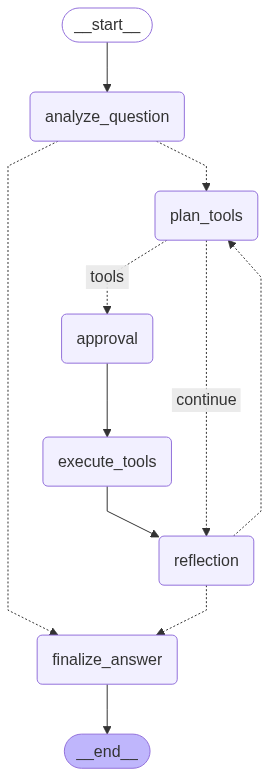
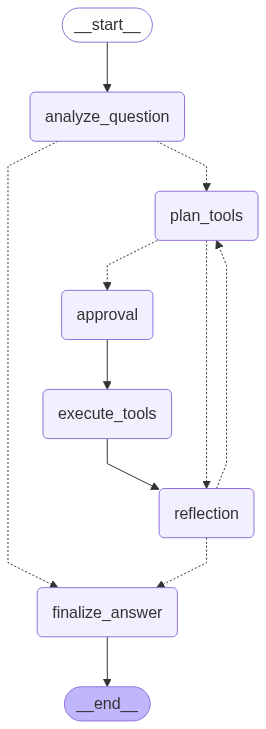
x

diff --git a/frontend/src/agents/diagnostic_agent/DiagnosticChatView.tsx b/frontend/src/agents/diagnostic_agent/DiagnosticChatView.tsx
@@ -223,11 +223,11 @@ export function DiagnosticChatView({
               {/* 助手合并输出区域 */}
               {round.assistant.length > 0 && (
                 <div className="flex flex-col items-start mb-6">
-                  <div className="flex items-start gap-2 max-w-[100%] sm:max-w-[90%]">
+                  <div className="flex items-start gap-2 max-w-[100%] sm:max-w-[90%] min-w-0">
                     <div className="rounded-full bg-gray-200 p-2 flex-shrink-0 flex items-center justify-center">
                       <Bot className="h-5 w-5 text-gray-600" />
                     </div>
-                    <div className="relative flex flex-col bg-gray-100 rounded-lg p-4 shadow min-w-0 w-full">
+                    <div className="relative flex flex-col bg-gray-100 rounded-lg p-4 shadow min-w-0 w-full overflow-x-auto max-w-none">
                       {round.assistant.map((msg, i) => {
                         // 活动事件和 AI 内容
                         if (msg.type === 'ai') {
@@ -244,8 +244,8 @@ export function DiagnosticChatView({
                               )}
                               {/* AI 内容 */}
                               {msg.content && (
-                                <div className="mb-2 overflow-x-auto">
-                                  <div className="min-w-fit">
+                                <div className="mb-2 overflow-x-auto min-w-0">
+                                  <div className="min-w-fit max-w-none">
                                     <MarkdownRenderer content={typeof msg.content === 'string' ? msg.content : JSON.stringify(msg.content)} />
                                   </div>
                                 </div>

diff --git a/frontend/src/components/MarkdownRenderer.tsx b/frontend/src/components/MarkdownRenderer.tsx
@@ -61,6 +61,7 @@ const markdownStyles = `
     font-family: 'Menlo', 'Monaco', 'Consolas', monospace;
     font-size: 0.875em;
     border: 1px solid #E5E7EB;
+    white-space: nowrap;
   }
   .markdown-body pre { 
     background-color: #F9FAFB;
@@ -69,6 +70,7 @@ const markdownStyles = `
     padding: 16px;
     overflow-x: auto;
     margin: 16px 0;
+    white-space: pre;
   }
   .markdown-body pre code {
     color: #1F2937;
@@ -76,6 +78,7 @@ const markdownStyles = `
     background: transparent;
     padding: 0;
     border: none;
+    white-space: pre;
   }
   .markdown-body ul {
     @apply list-disc list-inside mb-4;

diff --git a/backend/src/agents/diagnostic_agent/graph.py b/backend/src/agents/diagnostic_agent/graph.py
@@ -524,13 +524,25 @@ builder.add_conditional_edges(
     ["plan_tools", "finalize_answer"]
 )
 
-# 修复：使用tools_condition来决定是否有工具调用
+# 修复：自定义条件函数来决定是否有工具调用
+def check_tool_calls(state: DiagnosticState, config: RunnableConfig) -> str:
+    """检查是否有工具调用"""
+    messages = state.get("messages", [])
+    if not messages:
+        return "reflection"
+    
+    last_message = messages[-1]
+    if hasattr(last_message, 'tool_calls') and last_message.tool_calls:
+        return "approval"
+    else:
+        return "reflection"
+
 builder.add_conditional_edges(
     "plan_tools",
-    tools_condition,
+    check_tool_calls,
     {
-        "tools": "approval",
-        "continue": "reflection"  # 如果没有工具调用，也进入反思环节
+        "approval": "approval",
+        "reflection": "reflection"
     }
 )
 
